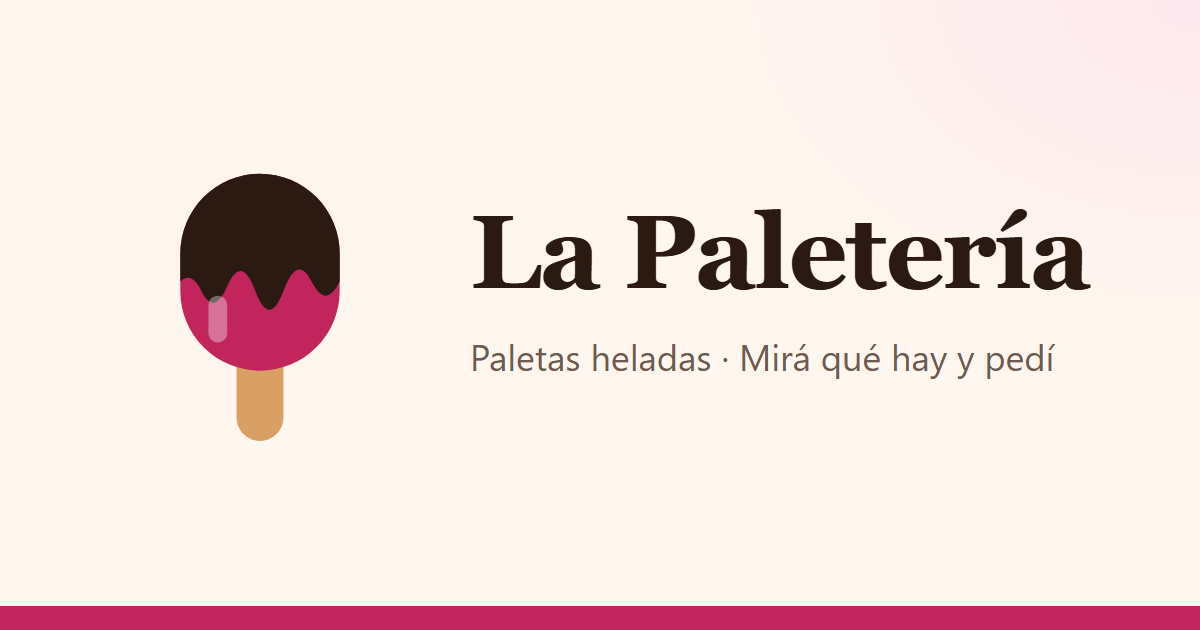
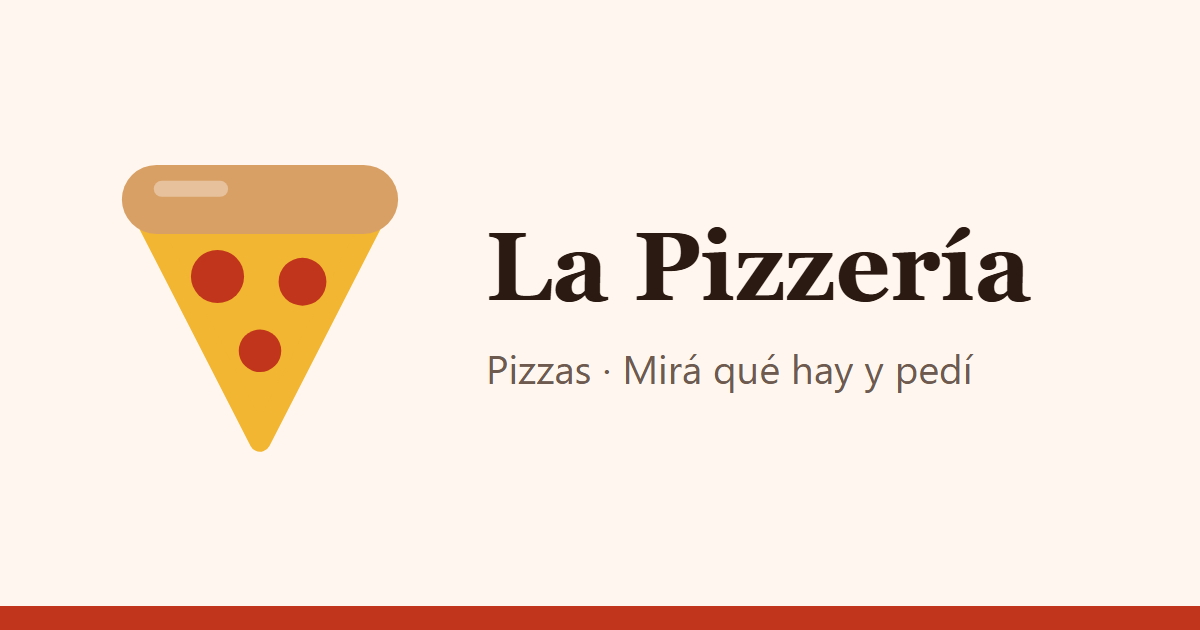
first commit

diff --git a/tests/ui.test.ts b/tests/ui.test.ts
@@ -19,8 +19,8 @@ const ejemplo = {
   nota: null,
   total: 7500,
   items: [
-    { nombre: "Oreo · Paleta", cantidad: 2, precio: 2500 },
-    { nombre: "Dubai · Paleta", cantidad: 1, precio: 2500 },
+    { nombre: "Muzzarella · Grande", cantidad: 2, precio: 2500 },
+    { nombre: "Napolitana · Grande", cantidad: 1, precio: 2500 },
   ],
 };
 
@@ -67,7 +67,7 @@ describe("formato para el admin", () => {
     expect(origenSitio("localhost:8787")).toBe("http://localhost:8787");
     expect(origenSitio("127.0.0.1:3000")).toBe("http://127.0.0.1:3000");
     expect(origenSitio("x.workers.dev")).toBe("https://x.workers.dev");
-    expect(origenSitio(null)).toBe("https://la-paleteria.lavadito.workers.dev");
+    expect(origenSitio(null)).toBe("https://la-pizzeria.lavadito.workers.dev");
   });
 });
 
@@ -75,7 +75,7 @@ describe("mensajeAlCliente", () => {
   it("nuevo, con y sin link", () => {
     const sin = mensajeAlCliente({ ...ejemplo, estado: "nuevo" });
     expect(sin).toBe(
-      "Hola Ana! Recibimos tu pedido #7:\nPedido #7 · Ana\n• 2 × Oreo · Paleta ($ 5.000)\n• 1 × Dubai · Paleta ($ 2.500)\nTotal: $ 7.500\nEnvío a: Calle 123",
+      "Hola Ana! Recibimos tu pedido #7:\nPedido #7 · Ana\n• 2 × Muzzarella · Grande ($ 5.000)\n• 1 × Napolitana · Grande ($ 2.500)\nTotal: $ 7.500\nEnvío a: Calle 123",
     );
     const con = mensajeAlCliente({ ...ejemplo, estado: "nuevo" }, { link: "https://x/pedido/abc" });
     expect(con).toBe(sin + "\nSeguilo acá: https://x/pedido/abc");
@@ -149,19 +149,19 @@ describe("aPreparar", () => {
   it("suma por producto y ordena", () => {
     expect(
       aPreparar([
-        { items: [{ nombre: "Oreo · Paleta", cantidad: 2 }, { nombre: "Dubai · Paleta", cantidad: 1 }] },
-        { items: [{ nombre: "Oreo · Paleta", cantidad: 1 }] },
+        { items: [{ nombre: "Muzzarella · Grande", cantidad: 2 }, { nombre: "Napolitana · Grande", cantidad: 1 }] },
+        { items: [{ nombre: "Muzzarella · Grande", cantidad: 1 }] },
       ]),
     ).toEqual([
-      { nombre: "Oreo · Paleta", cantidad: 3 },
-      { nombre: "Dubai · Paleta", cantidad: 1 },
+      { nombre: "Muzzarella · Grande", cantidad: 3 },
+      { nombre: "Napolitana · Grande", cantidad: 1 },
     ]);
   });
 
   it("empates por nombre", () => {
     expect(
-      aPreparar([{ items: [{ nombre: "Rasta", cantidad: 1 }, { nombre: "Dubai", cantidad: 1 }] }]).map((x) => x.nombre),
-    ).toEqual(["Dubai", "Rasta"]);
+      aPreparar([{ items: [{ nombre: "Napolitana", cantidad: 1 }, { nombre: "Calabresa", cantidad: 1 }] }]).map((x) => x.nombre),
+    ).toEqual(["Calabresa", "Napolitana"]);
   });
 });
 
@@ -175,34 +175,34 @@ describe("elección guardada", () => {
 
   it("recortarEleccion recorta y avisa", () => {
     const r = recortarEleccion({ 1: 3, 2: 1, 9: 2 }, [
-      { id: 1, nombre: "Oreo · Paleta", stock: 2 },
-      { id: 2, nombre: "Dubai · Paleta", stock: 0 },
+      { id: 1, nombre: "Muzzarella · Grande", stock: 2 },
+      { id: 2, nombre: "Napolitana · Grande", stock: 0 },
     ]);
     expect(r.eleccion).toEqual({ 1: 2 });
     expect(r.recortes).toEqual([
-      { id: 1, nombre: "Oreo · Paleta", pedidas: 3, quedan: 2 },
-      { id: 2, nombre: "Dubai · Paleta", pedidas: 1, quedan: 0 },
+      { id: 1, nombre: "Muzzarella · Grande", pedidas: 3, quedan: 2 },
+      { id: 2, nombre: "Napolitana · Grande", pedidas: 1, quedan: 0 },
     ]);
     expect(r.cambio).toBe(true);
   });
 
   it("recortarEleccion sin cambios devuelve la misma referencia", () => {
     const e = { 1: 2 };
-    const r = recortarEleccion(e, [{ id: 1, nombre: "Oreo · Paleta", stock: 5 }]);
+    const r = recortarEleccion(e, [{ id: 1, nombre: "Muzzarella · Grande", stock: 5 }]);
     expect(r.cambio).toBe(false);
     expect(r.eleccion).toBe(e);
     expect(r.recortes).toEqual([]);
   });
 
   it("textoRecorte", () => {
-    expect(textoRecorte({ id: 1, nombre: "Oreo · Paleta", pedidas: 3, quedan: 2 })).toBe(
-      "Oreo · Paleta: quedaban 2, te dejamos 2.",
+    expect(textoRecorte({ id: 1, nombre: "Muzzarella · Grande", pedidas: 3, quedan: 2 })).toBe(
+      "Muzzarella · Grande: quedaban 2, te dejamos 2.",
     );
-    expect(textoRecorte({ id: 1, nombre: "Oreo · Paleta", pedidas: 3, quedan: 1 })).toBe(
-      "Oreo · Paleta: quedaba 1, te dejamos 1.",
+    expect(textoRecorte({ id: 1, nombre: "Muzzarella · Grande", pedidas: 3, quedan: 1 })).toBe(
+      "Muzzarella · Grande: quedaba 1, te dejamos 1.",
     );
-    expect(textoRecorte({ id: 1, nombre: "Oreo · Paleta", pedidas: 3, quedan: 0 })).toBe(
-      "Oreo · Paleta se agotó y la sacamos de tu pedido.",
+    expect(textoRecorte({ id: 1, nombre: "Muzzarella · Grande", pedidas: 3, quedan: 0 })).toBe(
+      "Muzzarella · Grande se agotó y la sacamos de tu pedido.",
     );
   });
 });

diff --git a/app/page.tsx b/app/page.tsx
@@ -4,7 +4,7 @@ import { connection } from "next/server";
 import { db } from "@/lib/cloudflare";
 import { ajustesActuales, leerCatalogo } from "@/lib/datos";
 import { origenSitio } from "@/lib/formato";
-import { LogoPaleta } from "./LogoPaleta";
+import { LogoPizza } from "./LogoPizza";
 import { Pedir } from "./Pedir";
 
 export async function generateMetadata(): Promise<Metadata> {
@@ -13,11 +13,11 @@ export async function generateMetadata(): Promise<Metadata> {
   return {
     metadataBase: new URL(origenSitio(h.get("host"))),
     title: { absolute: a.nombre_local },
-    description: "Paletas heladas: mirá qué hay y hacé tu pedido.",
+    description: "Pizzas: mirá qué hay y hacé tu pedido.",
     openGraph: {
       title: a.nombre_local,
       description: "Mirá qué hay y hacé tu pedido.",
-      images: [{ url: "/og.png", width: 1200, height: 630, alt: "Paletas heladas" }],
+      images: [{ url: "/og.png", width: 1200, height: 630, alt: "Pizzas" }],
       locale: "es_AR",
       type: "website",
     },
@@ -35,7 +35,7 @@ export default async function Inicio() {
     <main className="publico">
       <header className="cabecera">
         <div className="marca">
-          <LogoPaleta />
+          <LogoPizza />
           <h1>{ajustes.nombre_local}</h1>
         </div>
         <p className="bajada">Elegí cuántas querés, hacé tu pedido y coordinamos por WhatsApp.</p>
@@ -46,7 +46,7 @@ export default async function Inicio() {
         )}
       </header>
       {secciones.length === 0 ? (
-        <p className="vacio">Por ahora no hay paletas cargadas. Volvé más tarde.</p>
+        <p className="vacio">Por ahora no hay pizzas cargadas. Volvé más tarde.</p>
       ) : (
         <Pedir
           secciones={secciones.map((s) => ({

diff --git a/app/globals.css b/app/globals.css
@@ -1,4 +1,4 @@
-/* La Paletería: crema de helado, chocolate y frambuesa. Mobile first, CSS plano.
+/* La Pizzería: masa, tomate y queso. Mobile first, CSS plano.
    Contrastes calculados con WCAG 2.x (ver obsidian/Plan UX-UI.md §3). */
 
 /* ───────────── 1. Tokens (claro) ───────────── */
@@ -10,10 +10,10 @@
   --suave: #6e5a4f;
   --linea: #ecdccd;
   --borde-control: #a38979;
-  --acento: #c2255c;
+  --acento: #c0351b;
   --acento-tinta: #ffffff;
-  --acento-suave: #fde7ee;
-  --acento-fuerte: #9e1c4a;
+  --acento-suave: #fde8e1;
+  --acento-fuerte: #952812;
   --ok: #2f7d4f;
   --peligro: #b42318;
   --peligro-tinta: #ffffff;
@@ -23,9 +23,9 @@
   --fondo-hoja: rgb(28 19 16 / 50%);
 
   /* Chips de estado: texto / fondo / borde de tarjeta */
-  --nuevo-t: #9e1c4a;
-  --nuevo-f: #fde7ee;
-  --nuevo-b: #c2255c;
+  --nuevo-t: #952812;
+  --nuevo-f: #fde8e1;
+  --nuevo-b: #c0351b;
   --preparado-t: #7a4300;
   --preparado-f: #fdf0d9;
   --preparado-b: #9a5b00;
@@ -84,10 +84,10 @@
     --suave: #bfa99b;
     --linea: #43322a;
     --borde-control: #8a7264;
-    --acento: #f06595;
-    --acento-tinta: #2b0a16;
-    --acento-suave: #4a1d2c;
-    --acento-fuerte: #ffb3c8;
+    --acento: #ff8a5c;
+    --acento-tinta: #2b0d05;
+    --acento-suave: #4a2116;
+    --acento-fuerte: #ffb89c;
     --ok: #5cc489;
     --peligro: #ff7b6e;
     --peligro-tinta: #1c1310;
@@ -96,9 +96,9 @@
     --velo: rgb(28 19 16 / 80%);
     --fondo-hoja: rgb(0 0 0 / 60%);
 
-    --nuevo-t: #ffb3c8;
-    --nuevo-f: #4a1d2c;
-    --nuevo-b: #f06595;
+    --nuevo-t: #ffb89c;
+    --nuevo-f: #4a2116;
+    --nuevo-b: #ff8a5c;
     --preparado-t: #ffd48a;
     --preparado-f: #4a3410;
     --preparado-b: #f2b84b;

diff --git a/app/LogoPizza.tsx b/app/LogoPizza.tsx
@@ -1,14 +1,13 @@
-/** Paleta de frambuesa con baño de chocolate. El mismo dibujo que `app/icon.svg`. */
-export function LogoPaleta({ tamano = 40 }: { tamano?: number }) {
+/** Porción de pizza con borde de masa, queso y pepperoni. El mismo dibujo que `public/icon.svg`. */
+export function LogoPizza({ tamano = 40 }: { tamano?: number }) {
   return (
     <svg className="logo" width={tamano} height={tamano} viewBox="0 0 64 64" aria-hidden focusable="false">
-      <rect x="27" y="40" width="10" height="21" rx="5" fill="#d9a066" />
-      <rect x="15" y="4" width="34" height="42" rx="17" fill="#c2255c" />
-      <path
-        d="M15 21A17 17 0 0 1 49 21V27Q46 33 43 27Q40 21 37 29Q34 37 31 29Q28 21 25 28Q22 35 19 28Q17 25 15 27Z"
-        fill="#2b1a12"
-      />
-      <rect x="21" y="30" width="4" height="10" rx="2" fill="#fff" opacity=".35" />
+      <path d="M11 17H53L32 58Z" fill="#f2b632" stroke="#f2b632" strokeWidth="4" strokeLinejoin="round" />
+      <rect x="6" y="6" width="52" height="13" rx="6.5" fill="#d9a066" />
+      <circle cx="24" cy="27" r="5" fill="#c0351b" />
+      <circle cx="40" cy="28" r="4.5" fill="#c0351b" />
+      <circle cx="32" cy="41" r="4" fill="#c0351b" />
+      <rect x="12" y="9" width="14" height="3" rx="1.5" fill="#fff" opacity=".35" />
     </svg>
   );
 }

diff --git a/tests/logica.test.ts b/tests/logica.test.ts
@@ -29,7 +29,7 @@ describe("leerPedido", () => {
   });
 
   it("pide al menos un producto", () => {
-    expect(leerPedido([...base, ["cant_1", "0"]])).toEqual({ ok: false, error: "Elegí al menos una paleta." });
+    expect(leerPedido([...base, ["cant_1", "0"]])).toEqual({ ok: false, error: "Elegí al menos una pizza." });
   });
 
   it("rechaza cantidades negativas, decimales o enormes", () => {
@@ -75,12 +75,12 @@ describe("textoPedido", () => {
       nota: "Sin timbre",
       total: 7500,
       items: [
-        { nombre: "Oreo · Paleta", cantidad: 2, precio: 2500 },
-        { nombre: "Dubai · Paleta", cantidad: 1, precio: 2500 },
+        { nombre: "Muzzarella · Grande", cantidad: 2, precio: 2500 },
+        { nombre: "Napolitana · Grande", cantidad: 1, precio: 2500 },
       ],
     });
     expect(t).toBe(
-      "Pedido #7 · Ana\n• 2 × Oreo · Paleta ($ 5.000)\n• 1 × Dubai · Paleta ($ 2.500)\nTotal: $ 7.500\nEnvío a: Calle 123\nNota: Sin timbre",
+      "Pedido #7 · Ana\n• 2 × Muzzarella · Grande ($ 5.000)\n• 1 × Napolitana · Grande ($ 2.500)\nTotal: $ 7.500\nEnvío a: Calle 123\nNota: Sin timbre",
     );
   });
 });

diff --git a/app/Pedir.tsx b/app/Pedir.tsx
@@ -15,7 +15,7 @@ export function Pedir({ secciones, textoRetiro }: { secciones: Seccion[]; textoR
   const [anuncio, setAnuncio] = useState("");
 
   const productos = useMemo(() => secciones.flatMap((s) => s.productos), [secciones]);
-  /** "Oreo · Paleta": el nombre solo ("Paleta") se repite entre sabores. */
+  /** "Muzza · Grande": el nombre solo ("Grande") se repite entre sabores. */
   const completo = useMemo(
     () => new Map(secciones.flatMap((s) => s.productos.map((p) => [p.id, `${s.nombre} · ${p.nombre}`] as const))),
     [secciones],
@@ -134,7 +134,7 @@ export function Pedir({ secciones, textoRetiro }: { secciones: Seccion[]; textoR
       {unidades > 0 && (
         <div className="barra">
           <span className="barra-total">
-            {unidades} {unidades === 1 ? "paleta" : "paletas"} · <strong>{pesos(total)}</strong>
+            {unidades} {unidades === 1 ? "pizza" : "pizzas"} · <strong>{pesos(total)}</strong>
           </span>
           <button type="button" className="boton-principal" onClick={() => setAbierto(true)} aria-haspopup="dialog">
             Pedir

diff --git a/app/pedido/[token]/page.tsx b/app/pedido/[token]/page.tsx
@@ -7,7 +7,7 @@ import { mensajeAlLocal } from "@/lib/mensajes";
 import { pasosDelPedido, textoEstadoCliente } from "@/lib/pedido";
 import { NOMBRE_ESTADO } from "@/lib/tipos";
 import { CompartirLink, LimpiarBorrador, Refrescar } from "../../compartidos";
-import { LogoPaleta } from "../../LogoPaleta";
+import { LogoPizza } from "../../LogoPizza";
 
 export async function generateMetadata({ params }: PageProps<"/pedido/[token]">): Promise<Metadata> {
   const { token } = await params;
@@ -30,7 +30,7 @@ export default async function VerPedido({ params, searchParams }: PageProps<"/pe
     <main className="publico">
       <header className="cabecera cabecera-chica">
         <Link href="/" className="marca">
-          <LogoPaleta tamano={32} />
+          <LogoPizza tamano={32} />
           <span className="marca-nombre">{ajustes.nombre_local}</span>
         </Link>
       </header>

diff --git a/app/not-found.tsx b/app/not-found.tsx
@@ -1,6 +1,6 @@
 import type { Metadata } from "next";
 import Link from "next/link";
-import { LogoPaleta } from "./LogoPaleta";
+import { LogoPizza } from "./LogoPizza";
 
 // Sin D1 acá: Next prerenderiza esta página en el build, donde no hay bindings.
 export const metadata: Metadata = { title: "No encontrada" };
@@ -9,11 +9,11 @@ export default function NoEncontrada() {
   return (
     <main className="publico">
       <section className="confirmacion pagina-error">
-        <LogoPaleta tamano={48} />
+        <LogoPizza tamano={48} />
         <h1 className="confirmacion-titulo">No encontramos esta página</h1>
         <p className="ayuda">Puede que el link esté mal escrito.</p>
         <Link href="/" className="boton-principal">
-          Ver las paletas
+          Ver las pizzas
         </Link>
       </section>
     </main>

diff --git a/app/admin/(panel)/stock/page.tsx b/app/admin/(panel)/stock/page.tsx
@@ -216,7 +216,7 @@ function SeccionSabor({
       <details className="agregar">
         <summary>+ Agregar producto a {sabor.nombre}</summary>
         <FormAccion accion={crearProducto} ocultos={{ sabor_id: sabor.id }} className="fila">
-          <input name="nombre" placeholder="Nombre (ej. Paleta)" aria-label="Nombre del producto" required minLength={2} maxLength={60} />
+          <input name="nombre" placeholder="Nombre (ej. Grande)" aria-label="Nombre del producto" required minLength={2} maxLength={60} />
           <span className="campo-pesos">
             <span aria-hidden>$</span>
             <input name="precio" placeholder="Precio" aria-label="Precio en pesos" inputMode="numeric" required />

diff --git a/app/admin/ingresar/page.tsx b/app/admin/ingresar/page.tsx
@@ -1,7 +1,7 @@
 import type { Metadata } from "next";
 import { redirect } from "next/navigation";
 import { connection } from "next/server";
-import { LogoPaleta } from "@/app/LogoPaleta";
+import { LogoPizza } from "@/app/LogoPizza";
 import { ajustesActuales } from "@/lib/datos";
 import { haySesion } from "@/lib/sesion";
 import { ingresar } from "../acciones";
@@ -17,7 +17,7 @@ export default async function Ingresar() {
   return (
     <main className="admin ingresar">
       <div className="marca">
-        <LogoPaleta />
+        <LogoPizza />
         <div>
           <h1>Admin</h1>
           <p className="ayuda">{ajustes.nombre_local}</p>

diff --git a/lib/foto.ts b/lib/foto.ts
@@ -18,7 +18,13 @@ export function leerFotoDataUrl(
   const m = /^data:(image\/(?:webp|jpeg|png));base64,([A-Za-z0-9+/]+=*)$/.exec(valor);
   if (!m) return null;
   const tipo = m[1] as TipoFoto;
-  return { tipo, ext: TIPOS_FOTO[tipo], bytes: Uint8Array.from(atob(m[2]), (c) => c.charCodeAt(0)) };
+  let binario: string;
+  try {
+    binario = atob(m[2]);
+  } catch {
+    return null; // Largo o relleno inválido: atob tira.
+  }
+  return { tipo, ext: TIPOS_FOTO[tipo], bytes: Uint8Array.from(binario, (c) => c.charCodeAt(0)) };
 }
 
 /** Medidas para achicar una foto a `lado` px de lado mayor, sin agrandarla y sin dejar un lado en 0. */

diff --git a/app/layout.tsx b/app/layout.tsx
@@ -13,8 +13,8 @@ const fraunces = Fraunces({
 
 // Sin D1 acá: el layout raíz también envuelve páginas que Next prerenderiza en el build.
 export const metadata: Metadata = {
-  title: { default: "La Paletería", template: "%s · La Paletería" },
-  description: "Paletas heladas: mirá qué hay y hacé tu pedido.",
+  title: { default: "La Pizzería", template: "%s · La Pizzería" },
+  description: "Pizzas: mirá qué hay y hacé tu pedido.",
   icons: { icon: [{ url: "/favicon.ico", sizes: "48x48" }, { url: "/icon.svg", type: "image/svg+xml" }], apple: "/apple-touch-icon.png" },
   twitter: { card: "summary_large_image" },
 };
